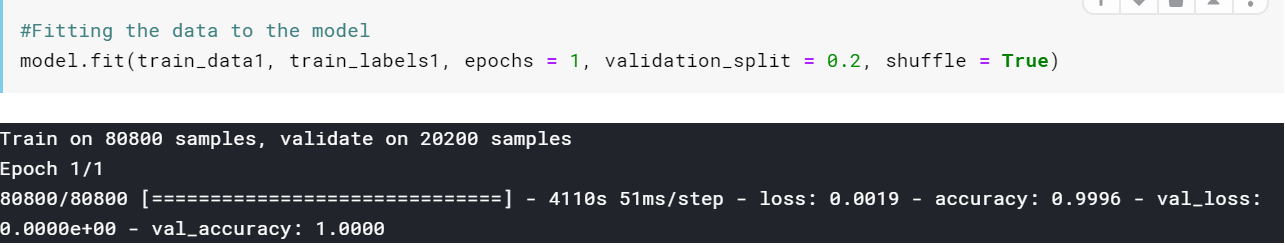
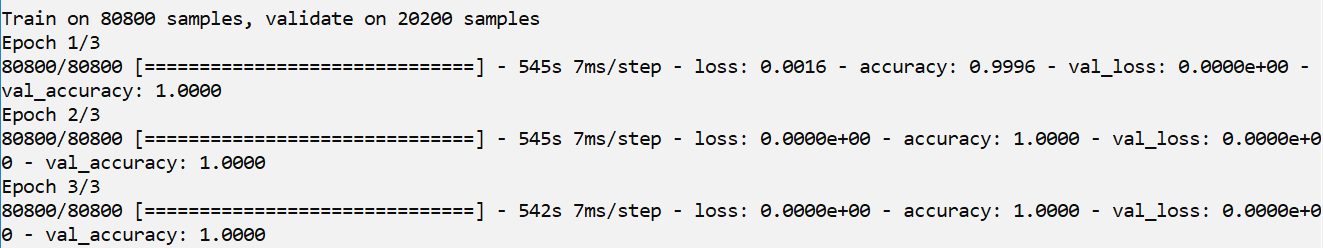
Saving the models

diff --git a/Autonomous Recipe Generator/food_classification.py b/Autonomous Recipe Generator/food_classification.py
@@ -15,7 +15,7 @@ from sklearn.preprocessing import LabelEncoder
 import glob
 import cv2
 
-%tensorflow_version 1.x
+#%tensorflow_version 1.x
 import keras
 from keras.models import Sequential
 from keras.layers import Dense, Flatten, Dropout, Conv2D, MaxPooling2D, SpatialDropout2D
@@ -25,8 +25,10 @@ from keras.applications.vgg16 import VGG16
 import os
 import random
 
+import pickle
+
 #Specifying the data paths
-train_img_dir = "/kaggle/input/food41/images"
+train_img_dir = "train"
 
 #Setting the root directory and a data directory
 root_dir = os.path.abspath('.')
@@ -164,4 +166,8 @@ shuffle(20)
 #Fitting the data to the model
 model.fit(train_data1, train_labels1, epochs = 3, validation_split = 0.2, shuffle = True)
 
-#Got a training accuracy score of 0.9996 (99.96%) and validation accuracy score of 1.000 (100%)
+#Saving the model in a file
+filename = 'vgg_model.sav'
+pickle.dump(model, open(filename, 'wb'))
+
+#Got a training accuracy score of 1.000 (100%) and validation accuracy score of 1.000 (100%)

diff --git a/Autonomous Recipe Generator/type_classification.py b/Autonomous Recipe Generator/type_classification.py
@@ -17,9 +17,11 @@ from sklearn.model_selection import cross_val_predict
 
 import random
 
+import pickle
+
 #Loading the data
-data1 = np.array(pd.read_csv("/content/drive/My Drive/Colab Notebooks/Computer Vision/Food 101/labels.txt", header = None))
-data2 = np.array(pd.read_csv("/content/drive/My Drive/Colab Notebooks/Computer Vision/Food 101/labels2.txt", header = None))
+data1 = np.array(pd.read_csv("labels.txt", header = None))
+data2 = np.array(pd.read_csv("labels2.txt", header = None))
 
 #Creating empty arrays to store the food name and the food type
 food_name = []
@@ -71,5 +73,9 @@ for i in prediction:
 #Calculating accuracy of the model
 accuracy = accuracy_score(food_type, result)
 print('Accuracy Is : %g%%' %(accuracy * 100))
+
+#Saving the model in a file
+filename = 'extra_trees_model.sav'
+pickle.dump(model, open(filename, 'wb'))
 
 #Got an accuracy score of 0.999911 (99.99%)
